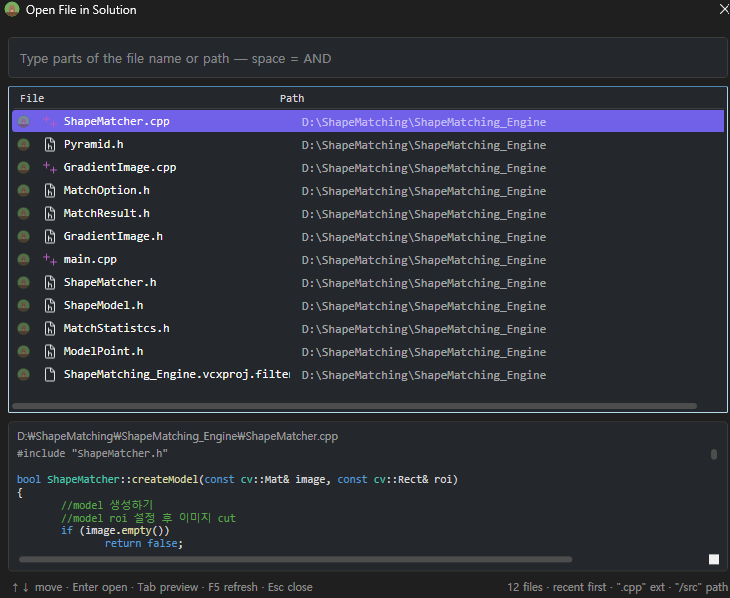
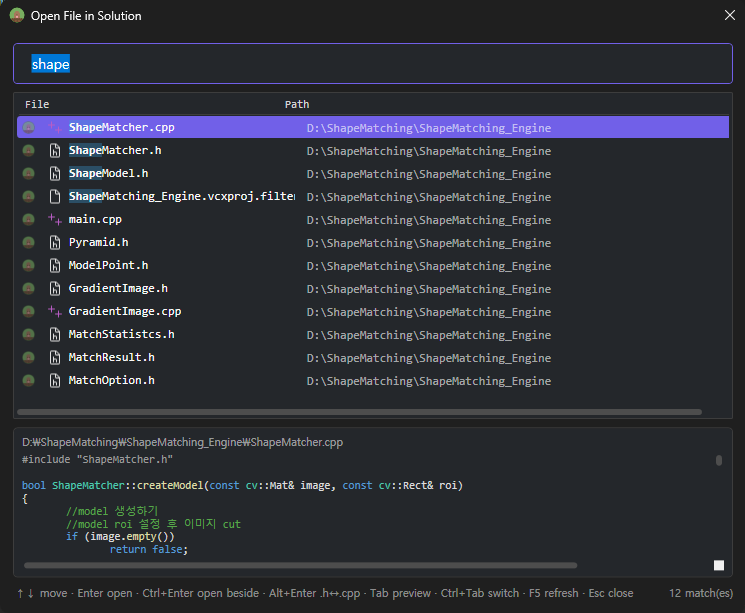
Add the member list and task marker shots, and catch up to 0.37.0
The README here was still describing 0.36.15: no Jump History, no task
markers, no split keys, no fuzzy matching, no VS 2022 color import. It is
the page people land on from the marketplace, so it was the stalest copy in
the most visible place.

The file finder screenshot is retaken — the old one showed the footer from
before "counterpart" became ".h<->.cpp" — and the two windows that shipped
without pictures now have them. Names say what they show.

Changed region(s): [[0.0, 0.0, 1.0, 0.6923], [0.0, 0.6622, 1.0, 0.9933], [0.9644, 0.0, 1.0, 0.0301]]

diff --git a/README.md b/README.md
@@ -25,11 +25,22 @@ arrows pick without leaving the search box, preview below.
 
 ![Open File in Solution](images/screenshots/file-finder.png)
 
+**List Methods in File** (`Alt+M`) — the active document's members, grouped by
+class, with the body of the selected one previewed underneath.
+
+![List Methods in File](images/screenshots/member-list.png)
+
 **Find All References** (`Alt+Shift+F`) — C/C++ call sites grouped by file with
 syntax-colored lines, declarations badged and left out of the count, and a
 filter box to narrow the list.
 
 ![Find All References](images/screenshots/find-references.png)
+
+**Task markers** (`Shift+Alt+K`) — every `TODO` / `FIXME` / `BUG` in the
+solution's comments: markers with counts on the left, their locations on the
+right.
+
+![Task markers](images/screenshots/task-markers.png)
 
 **Colors & theme** — pick a starting set, tick the classifications you want,
 recolor any of them; your original editor colors are backed up on first apply.
@@ -41,10 +52,12 @@ recolor any of them; your original editor colors are backed up on first apply.
 | Key | Window |
 |---|---|
 | `Alt+Shift+O` | **Open File in Solution** — every solution file, filtered as you type (space = AND terms) |
-| `Alt+M` | **List Methods in File** — the active document's functions/fields/types, Enter jumps |
+| `Alt+M` | **List Methods in File** — the active document's functions/fields/types grouped by class, Enter jumps |
 | `Alt+Shift+S` | **Find Symbol in Solution** — every type & member defined in your code |
 | `Alt+Shift+F` | **Find All References** — C/C++ gets a call-site list grouped by file; other languages keep the VS window |
 | `Ctrl+Shift+G` | **Open File Under Caret** — resolves the `#include` or path at the caret across the whole solution |
+| `Shift+Alt+J` | **Jump History** — every place you've been this session, Enter goes back |
+| `Shift+Alt+K` | **Task Markers** — every `TODO` / `FIXME` / `HACK` in the solution's comments |
 | `Shift+Alt+H` | **Hashtags** — browse every `#tag` written in comments across the solution |
 | `Shift+Alt+G` | **Goto Hashtag** — locations of the `#tag` under the caret, Enter = next |
 | `Ctrl+F12` | **Toggle Declaration/Definition** — C/C++ functions jump between the `.h` prototype and the `.cpp` body |
@@ -52,7 +65,21 @@ recolor any of them; your original editor colors are backed up on first apply.
 All finders share one flow: type to filter → arrows to pick (without leaving
 the search box) → Enter to jump → Esc to close. Filter tokens work everywhere:
 `/src` narrows results to paths containing `src`, and `.cpp` (file finder)
-filters by extension.
+filters by extension. Matching is fuzzy — `mkap` finds `MasterKeyApplier` —
+with exact prefix and substring hits always ranked first.
+
+In the file finder, `Ctrl+Enter` opens the file beside what you were reading
+(reusing the side group when there already is one), and `Alt+Enter` opens the
+file's C/C++ partner (`.h` ↔ `.cpp`) instead of the row you picked — so
+picking `foo.h` when you meant `foo.cpp` costs no second search.
+
+With the editor split, `Alt+Shift+W` moves the caret to the group on the other
+side and `Alt+Shift+U` puts the split away — both from the editor, where you
+are when you want them.
+
+Opened the wrong one? `Ctrl+Tab` cycles file → member → symbol (and
+`Ctrl+1/2/3` goes straight to one) **carrying your query with it**, so a
+misfire costs one keystroke instead of Esc-plus-retype.
 
 ## Hashtags — bookmarks that move with your code
 
@@ -67,6 +94,24 @@ Write `#likeThis` (starts with a letter, Unicode/Korean OK) in any comment:
 - Typing `#` in a comment **autocompletes** existing tags
 - Preprocessor directives (`#include`, `#region`) are never mistaken for tags
 - Solution-wide index with per-file caching; unsaved edits included
+
+## Task markers — `Shift+Alt+K`
+
+The same comment parser also collects `TODO`, `FIXME`, `HACK`, `BUG`, `XXX`
+and `UNDONE`, browsable the same way: markers on the left with counts, their
+locations on the right, Enter jumps. Only **uppercase** markers in comments
+count, so ordinary prose ("note that this is a bug") never shows up, and
+neither does anything in code or a string literal. Unlike the built-in task
+list this covers the whole solution, not just the files you have open. Edit the
+list with `task_markers` in `%APPDATA%\VsMasterKey\settings.txt`.
+
+## Jump History — `Shift+Alt+J`
+
+The trail of places you've been this session, as a filterable list with code
+previews. Navigate-backward (`Ctrl+-`) walks the same trail one blind step at a
+time and overshooting loses the spot; here you can see it and go straight
+there. It opens with the *previous* location selected, so Enter means "back
+one". Nothing is written to disk.
 
 ## C/C++ references
 
@@ -94,6 +139,13 @@ Write `#likeThis` (starts with a letter, Unicode/Korean OK) in any comment:
 Presets that give fields, parameters, statics and macros distinct colors
 (dark & light variants), or build your own per-item scheme with a color picker.
 Works on Visual Studio 2022 and 2026 (including the 2026 C++ editor rework).
+
+**Moving from VS 2022?** It doesn't bring your Fonts and Colors along, and
+importing the `.vssettings` through VS drops every C++ item — 2026 renamed
+them. *Import from VS 2022…* on the Colors page maps the old names to the new
+ones so the C++ colors survive too. The same page also puts the editor
+settings the upgrade resets — scroll bar map mode, its preview tooltip,
+scroll bar marks, line numbers — back within reach.
 
 ## Trust
 
